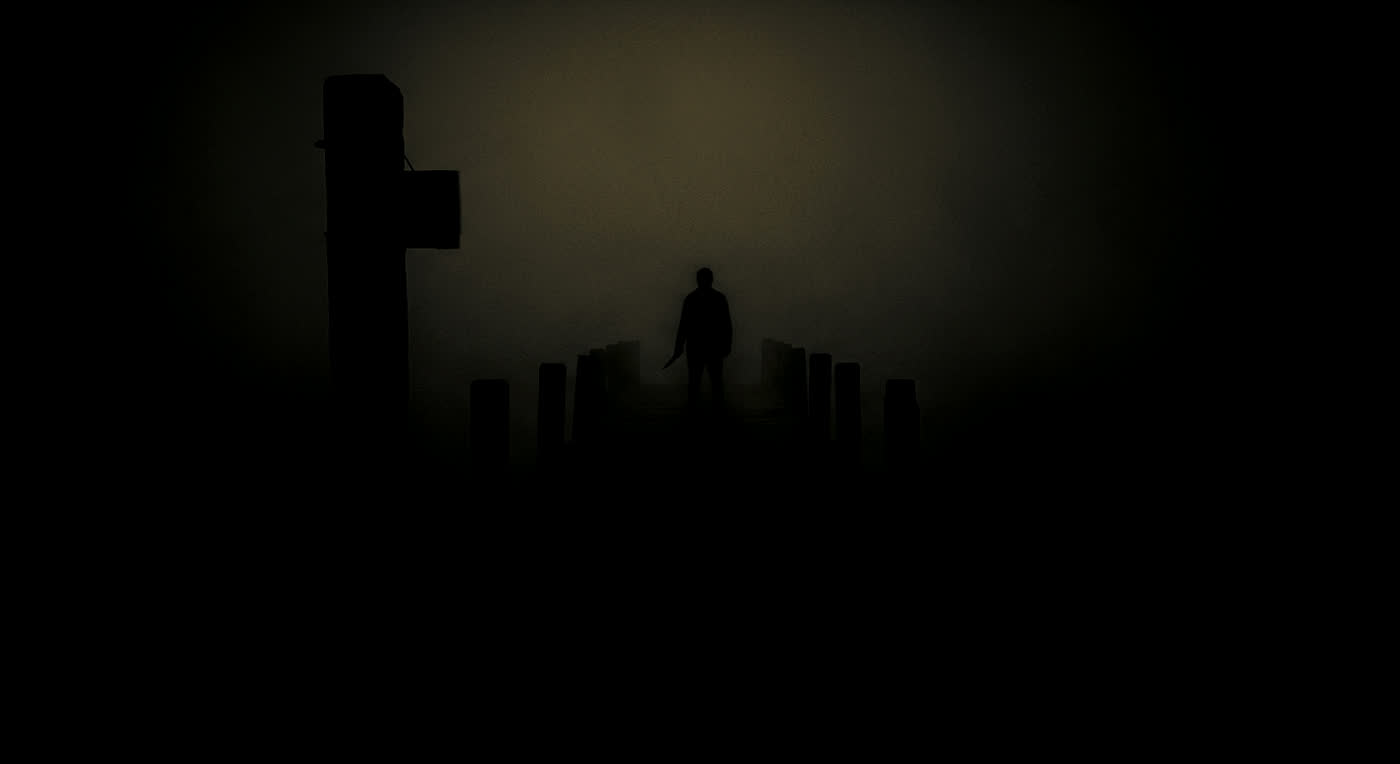
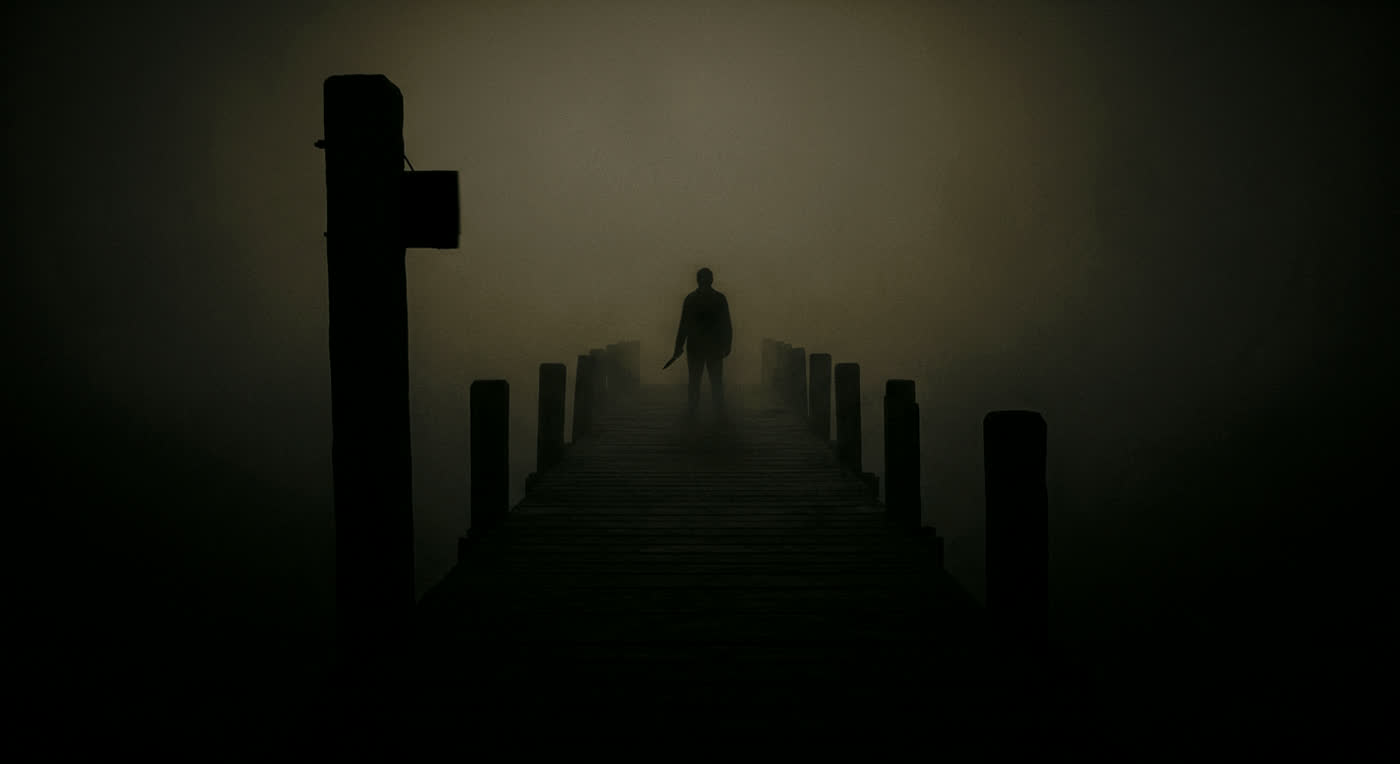
갈림길을 사진 전체화면 선택으로, 관찰 진입 시 화면 정리, 사진 로드 후 넘침 판정, 일지 찢기·체포 사진 배치 수정

diff --git a/public/game.js b/public/game.js
@@ -67,6 +67,11 @@
 
   // 사진·조서도 글과 같은 흐름에 놓는다. 읽던 자리 다음에 나와야 읽기 편하다.
   async function addBlock(n) {
+    // 사진은 로드되기 전엔 높이가 0이라, 로드를 기다렸다가 넘침을 잰다.
+    const img = n.querySelector && n.querySelector('img');
+    if (img && !img.complete) {
+      await new Promise((r) => { img.onload = r; img.onerror = r; setTimeout(r, 2500); });
+    }
     flow.appendChild(n);
     if (overflows()) {
       n.remove();
@@ -251,7 +256,9 @@
     });
   }
 
-  function observe(cfg) {
+  async function observe(cfg) {
+    // 사진이 통째로 보여야 하니, 읽던 글은 먼저 넘긴다.
+    if (flow.children.length) await turn(false);
     return new Promise((resolve) => {
       const plate = PLATES[cfg.plate];
       const found = [];
@@ -392,6 +399,57 @@
   }
 
   /* ── 몰입 화면 — 사진이 화면을 다 덮고, 그 위에서 고른다 ───────── */
+
+  // 사진 위에서 고르는 제한시간 선택. 고르면 같은 화면에서 결과가 이어진다.
+  function sceneTimed(cueHtml, choices, seconds) {
+    return new Promise((resolve) => {
+      const box = sceneBody();
+      const text = box.appendChild(el('div', 'scene-text'));
+      text.appendChild(el('p', 'say', cueHtml));
+      const list = text.appendChild(el('div', 'scene-list'));
+
+      const bar = box.appendChild(el('div', 'scene-foot'));
+      const timerEl = bar.appendChild(el('div', 'timer', '<i></i>'));
+      const fill = timerEl.firstElementChild;
+
+      const btns = choices.map((label, i) => {
+        const n = list.appendChild(el('button', 'dopt'));
+        n.innerHTML = `<span class="dtext">${esc(label)}</span>`;
+        n.onclick = () => end(i);
+        return n;
+      });
+
+      let left = seconds * 1000, since = 0, timer = null, done = false;
+      const run = () => {
+        since = Date.now();
+        timer = setTimeout(() => end(-1), left);
+        fill.style.transition = `width ${left}ms linear`;
+        fill.style.width = '0%';
+      };
+      const hold = () => {
+        clearTimeout(timer);
+        left = Math.max(300, left - (Date.now() - since));
+        const pct = (fill.getBoundingClientRect().width / timerEl.getBoundingClientRect().width) * 100;
+        fill.style.transition = 'none';
+        fill.style.width = pct + '%';
+      };
+      const onVis = () => { if (document.hidden) hold(); else requestAnimationFrame(run); };
+
+      const end = (idx) => {
+        if (done) return;
+        done = true;
+        clearTimeout(timer);
+        document.removeEventListener('visibilitychange', onVis);
+        timerEl.remove();
+        btns.forEach((n, i) => { n.disabled = true; if (i !== idx) n.classList.add('faded'); });
+        setTimeout(() => resolve(idx), 450);
+      };
+
+      document.addEventListener('visibilitychange', onVis);
+      if (document.hidden) fill.style.width = '100%';
+      else requestAnimationFrame(run);
+    });
+  }
 
   function sceneOpen(img) {
     scene.className = 'on';
@@ -771,16 +829,17 @@
     await say(state.chased ? F.chase.out : F.stay.out);
   }
 
-  /* 5장 — 서른 걸음 뒤 */
+  /* 6장 — 서른 걸음 뒤. 갈림길마다 사진이 화면을 덮는다. */
   async function act5() {
     await say(S.act5.open, { silent: true });
     for (const j of S.act5.junctions) {
-      await say([{ w: j.where }], { silent: true });
+      sceneOpen(j.img);
       slow(true);
-      const pick = await timed(esc(j.cue), j.opts, 9, false, j.img);
+      const pick = await sceneTimed(esc(j.cue), j.opts, 9);
       slow(false);
-      if (pick === j.right) await say([{ s: j.win }]);
-      else await say([{ s: pick < 0 ? S.act5.slow : j.lose }]);
+      if (pick === j.right) await sceneSay([{ s: j.win }]);
+      else await sceneSay([{ s: pick < 0 ? S.act5.slow : j.lose }]);
+      sceneClose();
     }
   }
 
@@ -811,18 +870,22 @@
 
   /* 8장 — 체포. 그리고 수첩. */
   async function act7() {
-    if (state.chased) await plateCard('img/arrest.jpg');
-    await say(state.chased ? S.act7.openChase : S.act7.openStay);
+    // 챕터 제목이 화면을 비우니, 사진은 그 다음에 얹는다.
+    const opening = state.chased ? S.act7.openChase : S.act7.openStay;
+    await say(opening.slice(0, 1));
+    if (state.chased) { await plateCard('img/arrest.jpg'); await wait(1400); }
+    await say(opening.slice(1));
     await say(state.humiliation >= 6 ? S.act7.proud : S.act7.plain);
 
     if (!state.pages.length) { await say(S.act7.pocketEmpty); return; }
 
     await say(S.act7.pocket);
 
-    addLine(el('p', 'say q', esc(S.act7.tearLead)));
-    const list = addLine(el('div', 'pages'));
+    // 목록이 길 수 있으니 질문·목록·버튼을 한 덩어리로 아래 칸에 둔다.
     const bar = setFoot(el('div'));
-    bar.style.cssText = 'display:flex;flex-direction:column;gap:8px';
+    bar.style.cssText = 'display:flex;flex-direction:column;gap:9px';
+    bar.appendChild(el('p', 'ask', esc(S.act7.tearLead)));
+    const list = bar.appendChild(el('div', 'pages'));
     const tear = new Set();
 
     state.pages.forEach((pg) => {

diff --git a/public/style.css b/public/style.css
@@ -485,7 +485,7 @@ body.slow .plate.photo img{filter:contrast(1.04) brightness(.96)}
   transition:filter 1.8s ease-in;
 }
 @keyframes push{from{transform:scale(1.02)} to{transform:scale(1.26)}}
-#scene.dim > img{filter:brightness(.12) contrast(1.25) saturate(.5)}
+#scene.dim > img{filter:brightness(.22) contrast(1.3) saturate(.45)}
 #scene::after{
   content:''; position:absolute; inset:0; pointer-events:none;
   background:radial-gradient(115% 95% at 50% 44%, transparent 22%, rgba(0,0,0,.82) 100%);
@@ -521,3 +521,9 @@ p.ask{
   margin:0 0 2px; color:var(--lamp); font-size:clamp(15px,4vw,16.5px); line-height:1.7;
   padding-left:12px; border-left:2px solid rgba(216,162,74,.45);
 }
+
+
+/* 몰입 화면의 세로 선택지 — 갈림길 */
+.scene-list{display:flex; flex-direction:column; gap:12px; align-items:center; margin-top:20px}
+.scene-list button.dopt{padding:8px 18px}
+.scene-foot .timer{width:min(420px, 80%); margin:0 auto}
